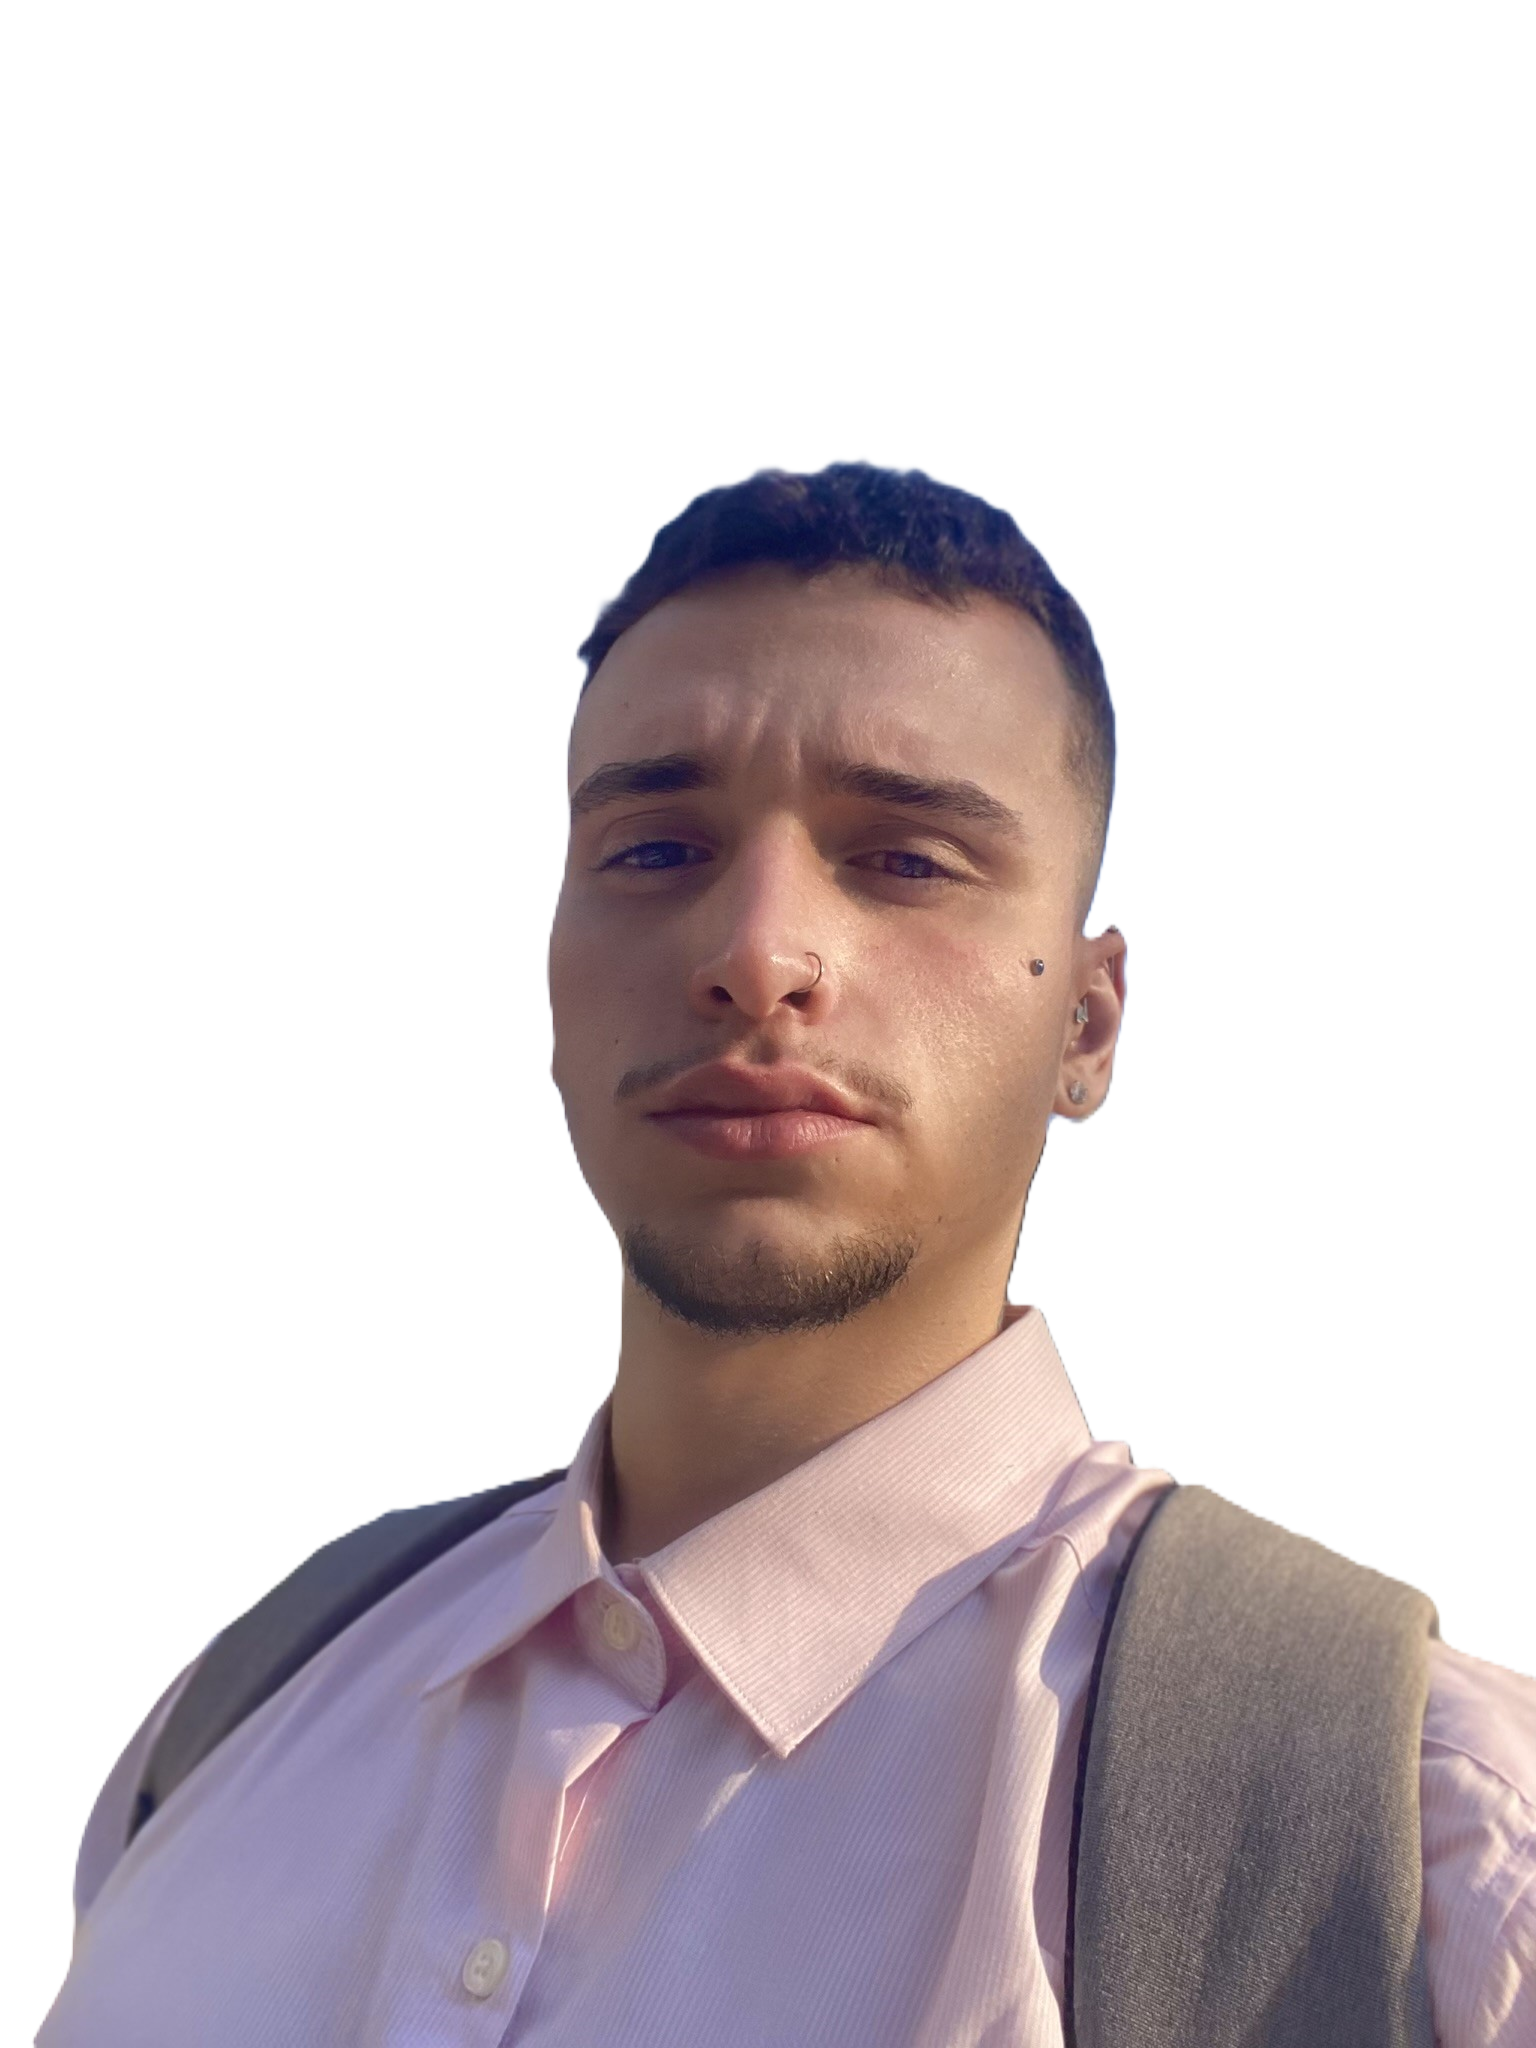
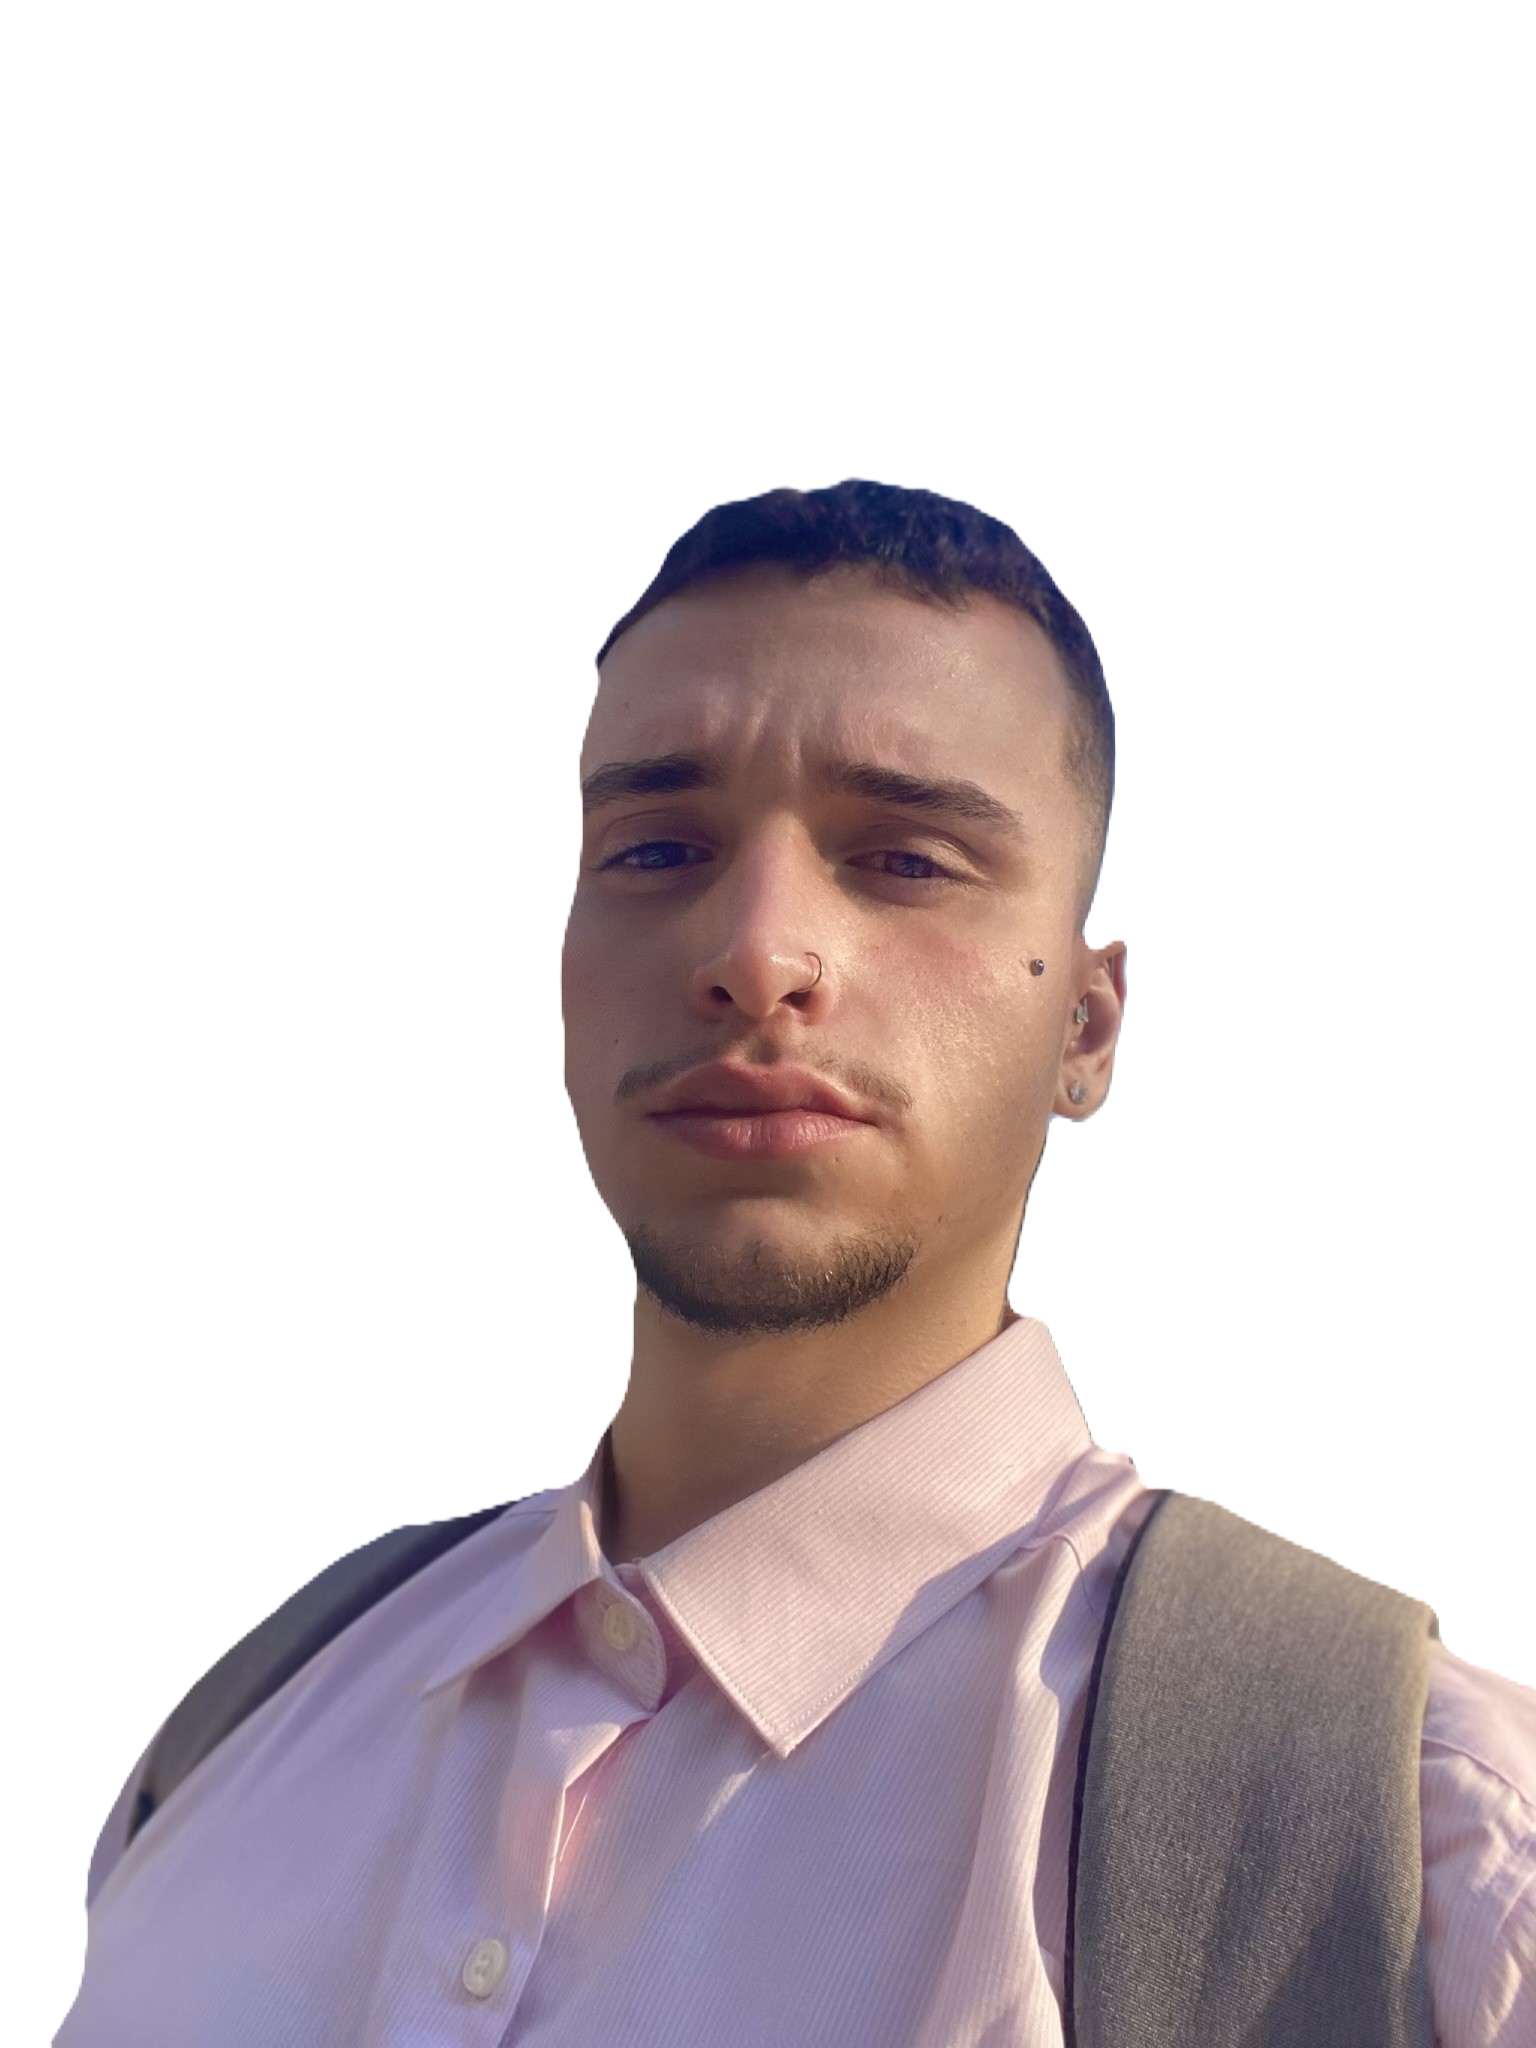
feat: add circle in photo and position technologies

diff --git a/src/_components/fields/apresentation.tsx b/src/_components/fields/apresentation.tsx
@@ -4,16 +4,16 @@ import LinkButton from "../link-button-item";
 
 const ApresentationField = () => {
   const technologyWithClasses = [
-    { className: "absolute top-[25%] -left-[35%]" },
-    { className: "absolute top-[50%] -left-[25%]" },
-    { className: "absolute top-[72%] -left-[40%]" },
-    { className: "absolute top-[25%] -right-[55%]" },
+    { className: "absolute top-[25%] -left-[25%]" },
+    { className: "absolute top-[75%] -left-[35%]" },
+    { className: "absolute top-[50%] -left-[50%]" },
     { className: "absolute top-[50%] -right-[45%]" },
-    { className: "absolute top-[75%] -right-[45%]" },
+    { className: "absolute top-[75%] -right-[58%] " },
+    { className: "absolute top-[25%] -right-[40%]" },
   ];
 
   return (
-    <div className="flex items-center flex-col text-center gap-4 w-full border-b border-solid border-yellowPrimary/15 px-5">
+    <div className="flex items-center overflow-y-hidden flex-col text-center gap-4 w-full border-b border-solid border-yellowPrimary/15 px-5">
       <div className="flex gap-2 items-center bg-yellowPrimary/15 rounded-full py-1 px-3 border border-solid border-yellowPrimary mt-5 ">
         <img
           src="./icons/waving-hand.svg"
@@ -49,10 +49,13 @@ const ApresentationField = () => {
 
       {/* MY PHOTO */}
       <div className="relative">
+        <div className="absolute -left-[10%] -bottom-[10%] w-fit flex items-center  justify-center">
+          <div className="w-64 h-64 border-4 shadow-lg shadow-white rounded-full"></div>
+        </div>
         <img
           src="./profile.png"
           alt="Ghabriel Molina Photo"
-          className="w-52 sm:w-60 md:w-72 object-cover"
+          className="w-52 sm:w-60 md:w-72 object-cover relative z-10"
         />
 
         <div>
